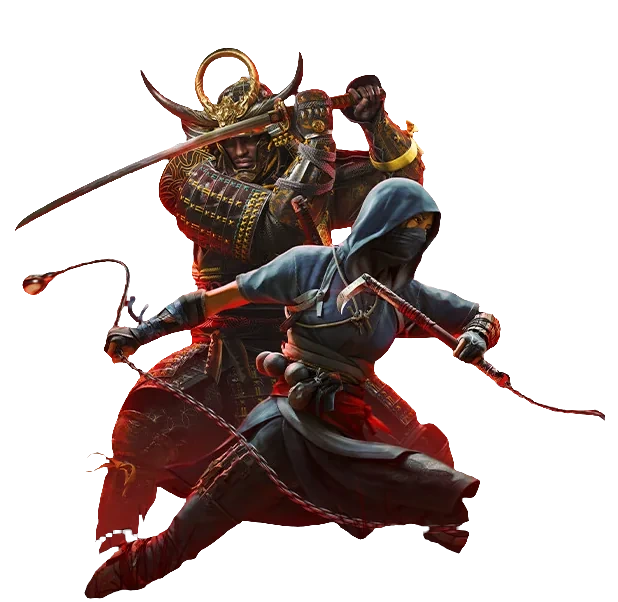
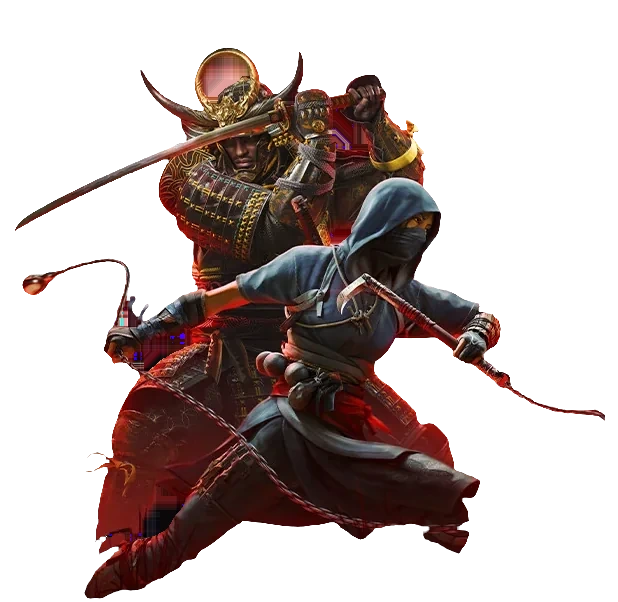
r16: poster ring back on every hero slide, auto-fit below faces/title; GoW cutout glitch strip removed; solid sm cutouts; FC26 key art hero; v=19

diff --git a/hg.js b/hg.js
@@ -6,7 +6,7 @@
   const IN_APP = /HunterGameApp/i.test(navigator.userAgent);
   const IS_ANDROID = /Android/i.test(navigator.userAgent);
   const store = { get: k => { try { return JSON.parse(localStorage.getItem('hg.' + k)); } catch { return null; } }, set: (k, v) => { try { localStorage.setItem('hg.' + k, JSON.stringify(v)); } catch {} } };
-  const I = n => '/img/' + n + '?v=18';
+  const I = n => '/img/' + n + '?v=19';
   const POSTERS = Array.from({ length: 12 }, (_, i) => I(`card-${String(i + 1).padStart(2, '0')}.webp`));
   const LOGO = I('hg-logo.png');
   const sv = (p, w = 30) => `<svg class="hg-svg" width="${w}" height="${w}" viewBox="0 0 24 24" fill="none" stroke="currentColor" stroke-width="2" stroke-linecap="round" stroke-linejoin="round" aria-hidden="true">${p}</svg>`;
@@ -32,14 +32,14 @@
   const ARW = ' ' + IC.arrow();
 
   // Each slide: one game. Centre = clean cutout, background = different official art (dimmed + blurred), ring = posters of the OTHER games
-  const SLIDES = [
+  const SLIDES = [ // every slide shows the ring; rt = per-slide ring centre (% of hero height), kept below background faces
     { id: 'wolverine', pop: 'f-wolverine', clear: 1, bg: 'wolverine-key', tag: "Marvel's Wolverine · PS5", h: 'Unleash the <span>claws.</span>' },
     { id: 'gow', bg: 'h-gow', tag: 'God of War Ragnarök', h: 'Kratos is <span>waiting.</span>' },
-    { id: 'gta6', bg: 'gta6-bg', soon: 1, ring: 1, tag: 'Grand Theft Auto VI', h: 'Vice City nights. <span>Coming soon.</span>' },
+    { id: 'gta6', bg: 'gta6-bg', soon: 1, tag: 'Grand Theft Auto VI', h: 'Vice City nights. <span>Coming soon.</span>' },
     { id: 'sm2', cut: 'peter', bg: 'h-sm2', tag: "Marvel's Spider-Man 2", h: 'Swing into <span>the city.</span>' },
     { id: 'acs', bg: 'h-acs', tag: "Assassin's Creed Shadows", h: 'Strike from <span>the shadows.</span>' },
-    { id: 'fc26', bg: 'h-fc26', tag: 'EA SPORTS FC 26', h: 'Settle it <span>on the pitch.</span>' },
-    { id: 'nr', bg: 'h-nr', ring: 1, tag: 'Elden Ring Nightreign', h: 'Survive <span>the night.</span>' },
+    { id: 'fc26', clear: 1, bg: 'h-fc26', tag: 'EA SPORTS FC 26', h: 'Settle it <span>on the pitch.</span>' },
+    { id: 'nr', bg: 'h-nr', tag: 'Elden Ring Nightreign', h: 'Survive <span>the night.</span>' },
     { id: 'wk', bg: 'h-wk', tag: 'Black Myth: Wukong', h: 'Take up <span>the staff.</span>' },
   ];
   const PIDS2 = ['sb', 'hfw', 'ff7r', 't8', 'mk1', 'hl', 'tlou2', 'rc', 'dmc5']; // second ring: its own posters, never shared
@@ -135,7 +135,7 @@
       busy = true; t0 = performance.now(); lastP = 0;
       ensure(next).then(() => requestAnimationFrame(() => {
         const prev = cur; cur = next; fillRing();
-        bgs.forEach((b, j) => b.classList.toggle('on', j === cur)); hx.classList.toggle('clr', !!SLIDES[cur].clear); hx.classList.toggle('ring-on', !!SLIDES[cur].ring);
+        bgs.forEach((b, j) => b.classList.toggle('on', j === cur)); hx.classList.toggle('clr', !!SLIDES[cur].clear); hx.classList.add('ring-on'); setTimeout(fitRing, 750);
         subs[prev].classList.remove('on'); subs[prev].classList.add('out');
         setTimeout(() => subs[prev].classList.remove('out'), 700);
         subs[cur].classList.remove('out'); subs[cur].classList.add('on');
@@ -144,19 +144,27 @@
         ensure((cur + 1) % SLIDES.length); // preload the next slide while this one plays
       }));
     }
-    hx.classList.toggle('clr', !!SLIDES[0].clear); hx.classList.toggle('ring-on', !!SLIDES[0].ring); measure(); fillRing(); layout();
+    hx.classList.toggle('clr', !!SLIDES[0].clear); hx.classList.add('ring-on');
+    // Ring sits as low as possible: its bottom edge stops just above the game tag, so it stays under every face and title.
+    function fitRing() {
+      const tag = $('.hgx-copy.on .hgx-tag', hx) || $('.hgx-copy.on', hx); if (!tag) return;
+      const hr = hx.getBoundingClientRect(); let bo = -1e9; cards.forEach(c => { const r = c.getBoundingClientRect(); if (r.bottom > bo) bo = r.bottom; });
+      const cur = parseFloat(getComputedStyle(ring1).top) || 0, want = cur + (tag.getBoundingClientRect().top - 12 - bo);
+      hx.style.setProperty('--rt', Math.round(want) + 'px');
+    }
+    measure(); fillRing(); layout(); fitRing(); setTimeout(fitRing, 800); document.fonts && document.fonts.ready.then(fitRing);
     let sx = null, moved = 0;
     hx.addEventListener('pointerdown', e => { if (e.target.closest('button')) return; sx = e.clientX; moved = 0; });
     addEventListener('pointermove', e => { if (sx == null) return; const dx = e.clientX - sx; sx = e.clientX; moved += dx; drag += dx * 0.01; }, { passive: true });
     addEventListener('pointerup', () => { if (sx == null) return; sx = null; if (Math.abs(moved) > 60) go(cur + (moved < 0 ? 1 : -1)); });
-    let rz; addEventListener('resize', () => { cancelAnimationFrame(rz); rz = requestAnimationFrame(() => { measure(); layout(); }); });
+    let rz; addEventListener('resize', () => { cancelAnimationFrame(rz); rz = requestAnimationFrame(() => { measure(); layout(); fitRing(); }); });
     new IntersectionObserver(([e]) => { visible = e.isIntersecting; hx.classList.toggle('paused', !visible); if (visible) { t0 = performance.now() - lastP * DUR; loop(); } }).observe(hx);
     document.addEventListener('visibilitychange', () => { if (!document.hidden && visible) { t0 = performance.now() - lastP * DUR; loop(); } });
     let running = false, lastP = 0;
     function loop() { if (!running) { running = true; requestAnimationFrame(tick); } }
     function tick(now) {
       if (!visible || document.hidden) { running = false; tick.l = 0; return; }
-      const dt = Math.min(50, now - (tick.l || now)); tick.l = now; if (!reduce && SLIDES[cur].ring) { auto += dt * 0.00018; layout(); }
+      const dt = Math.min(50, now - (tick.l || now)); tick.l = now; if (!reduce) { auto += dt * 0.00018; layout(); }
       lastP = Math.min(1, (now - t0) / DUR); prog.style.transform = `scaleX(${lastP.toFixed(4)})`;
       if (lastP >= 1 && !reduce) go(cur + 1);
       requestAnimationFrame(tick);
@@ -386,16 +394,21 @@
 
   /* ---------- App download ---------- */
   function appPopup() {
-    popup({ cls: 'p-app', art: I('r-app.webp'), icon: `<img src="${LOGO}" alt="Hunter Gamers" style="width:46px">`, title: 'Get the Hunter Game app', text: 'Book slots faster, keep your login, and get the full-screen experience on Android.',
-      extra: `<p style="font-size:12px">Android 7+ · about 6 MB · allow "install unknown apps" when asked.</p>`,
+    const el = popup({ cls: 'p-app', art: I('k-re9.webp'), icon: `<img src="${LOGO}" alt="Hunter Gamers" style="width:46px">`, title: 'Get the Hunter Gamers app', text: 'Book slots faster, keep your login, and get the full-screen experience on Android.',
+      extra: `<p class="hg-app-meta" style="font-size:12px">Android 7+ · latest version</p>`,
       actions: [{ label: 'Maybe later', run: () => store.set('appAsked', Date.now()) }, { label: `${IC.dl()} Download APK`, primary: true, run: () => { store.set('appAsked', Date.now()); location.href = '/downloads/hunter-game.apk'; } }] });
+    $$('[data-close]', el).forEach(x => x.addEventListener('click', () => store.set('appAsked', Date.now())));
+    Promise.all([fetch('/version.json', { cache: 'no-store' }).then(r => r.json()).catch(() => null), fetch('/downloads/hunter-game.apk', { method: 'HEAD', cache: 'no-store' }).then(r => +r.headers.get('content-length') || 0).catch(() => 0)])
+      .then(([v, len]) => { const m = $('.hg-app-meta', el); if (m) m.textContent = `Android 7+ · ${v ? 'v' + v.versionName : 'latest version'}${len ? ' · ' + (len / 1048576).toFixed(1) + ' MB' : ''}`; });
   }
+  let appTries = 0;
   function maybeApp() {
-    if (IN_APP || !IS_ANDROID) return;
+    if (IN_APP || window.HGApp) return;
     const t = store.get('appAsked'); if (t && Date.now() - t < 3 * 864e5) return;
-    if (loginEl.classList.contains('on') || openSheet) return;
+    if (loginEl.classList.contains('on') || openSheet || document.querySelector('.hg-cookie.on')) { if (appTries++ < 30) setTimeout(maybeApp, 2000); return; }
     appPopup();
   }
+  setTimeout(maybeApp, 2000);
   function addAppLinks() {
     if (IN_APP) return;
     const a = `<a class="hg-dl-link" href="/downloads/hunter-game.apk" data-hg-app>${svg(ico.dl).replace('<svg', '<svg width="16" height="16" fill="none" stroke="currentColor" stroke-width="2"')}Get the app</a>`;
@@ -623,7 +636,7 @@
     if (pct < 0) sh.classList.remove('upd-busy');
   };
 
-  buildHero(); buildGames(); buildFeature(); buildHardware(); buildLive(); buildReveal(); route(); buildNav(); wireActions(); addAppLinks();
+  buildHero(); buildGames(); buildFeature(); buildHardware(); buildLive(); { const lv = $('#live'), co = $('#consoles'), re = $('#rent'); if (lv && co) { lv.after(co); if (re) co.after(re); } } buildReveal(); route(); buildNav(); wireActions(); addAppLinks();
   loginEl = buildLogin(); cookieEl = buildCookie(); fillUser();
   if (IN_APP) document.documentElement.classList.add('in-app');
   if (!store.get('user') && !store.get('guest')) openLogin(); else afterLogin();

diff --git a/sw.js b/sw.js
@@ -1,5 +1,5 @@
-const CACHE='hg-v18';
-const ASSETS=["/", "/index.html", "/hg.css?v=18", "/hg.js?v=18", "/version.json", "/img/SOURCES.md", "/img/app-launcher-icon.png", "/img/c-acs-md.webp", "/img/c-acs-sm.webp", "/img/c-fc26-md.webp", "/img/c-fc26-sm.webp", "/img/c-gow-md.webp", "/img/c-gow-sm.webp", "/img/c-gta6-md.webp", "/img/c-gta6-sm.webp", "/img/c-nr-md.webp", "/img/c-nr-sm.webp", "/img/c-peter-md.webp", "/img/c-peter-sm.webp", "/img/c-spidey-feature.webp", "/img/c-wk-md.webp", "/img/c-wk-sm.webp", "/img/c-wolverine-md.webp", "/img/c-wolverine-sm.webp", "/img/card-01-sm.webp", "/img/card-01.webp", "/img/card-02-sm.webp", "/img/card-02.webp", "/img/card-03-sm.webp", "/img/card-03.webp", "/img/card-04-sm.webp", "/img/card-04.webp", "/img/card-05-sm.webp", "/img/card-05.webp", "/img/card-06-sm.webp", "/img/card-06.webp", "/img/card-07-sm.webp", "/img/card-07.webp", "/img/card-08-sm.webp", "/img/card-08.webp", "/img/card-09-sm.webp", "/img/card-09.webp", "/img/card-10-sm.webp", "/img/card-10.webp", "/img/card-11-sm.webp", "/img/card-11.webp", "/img/card-12-sm.webp", "/img/card-12.webp", "/img/f-jin.webp", "/img/f-kratos.webp", "/img/f-miles.webp", "/img/f-wolverine.webp", "/img/fx-got-a.webp", "/img/fx-got-b.webp", "/img/fx-got-c.webp", "/img/fx-gow-a.webp", "/img/fx-gow-b.webp", "/img/fx-gow-c.webp", "/img/fx-sm2-a.webp", "/img/fx-sm2-b.webp", "/img/fx-sm2-bg.webp", "/img/fx-smm-a.webp", "/img/fx-smm-b.webp", "/img/fx-smm-c.webp", "/img/gta6-bg-md.webp", "/img/gta6-bg-sm.webp", "/img/gta6-bg.webp", "/img/gta6-jason-bg-md.webp", "/img/gta6-jason-bg-sm.webp", "/img/gta6-jason-bg.webp", "/img/h-acs-md.webp", "/img/h-acs-sm.webp", "/img/h-fc26-md.webp", "/img/h-fc26-sm.webp", "/img/h-gow-md.webp", "/img/h-gow-sm.webp", "/img/h-nr-md.webp", "/img/h-nr-sm.webp", "/img/h-sm2-md.webp", "/img/h-sm2-sm.webp", "/img/h-wk-md.webp", "/img/h-wk-sm.webp", "/img/hg-logo.png", "/img/hw-ps4.webp", "/img/inline-0de9c85f.webp", "/img/inline-4b8af9d3.webp", "/img/inline-8ea46ef0.webp", "/img/inline-9645cd9f.webp", "/img/inline-d1938802.webp", "/img/inline-edeb105f.webp", "/img/k-acs.webp", "/img/k-bo7.webp", "/img/k-ds2.webp", "/img/k-fc26.webp", "/img/k-got.webp", "/img/k-gow.webp", "/img/k-gta6.webp", "/img/k-nr.webp", "/img/k-re9.webp", "/img/k-sm2.webp", "/img/k-wk.webp", "/img/k-wolverine.webp", "/img/miles-bg-md.webp", "/img/miles-bg-sm.webp", "/img/miles-bg.webp", "/img/p-acs.webp", "/img/p-bo7.webp", "/img/p-cp.webp", "/img/p-dg.webp", "/img/p-ds2.webp", "/img/p-er.webp", "/img/p-fc26.webp", "/img/p-got.webp", "/img/p-gow.webp", "/img/p-gta6.webp", "/img/p-nr.webp", "/img/p-rdr2.webp", "/img/p-re4.webp", "/img/p-re9.webp", "/img/p-sek.webp", "/img/p-sm2.webp", "/img/p-wk.webp", "/img/p-wolverine.webp", "/img/q-dmc5.webp", "/img/q-ff7r.webp", "/img/q-hfw.webp", "/img/q-hl.webp", "/img/q-mk1.webp", "/img/q-rc.webp", "/img/q-sb.webp", "/img/q-t8.webp", "/img/q-tlou2.webp", "/img/r-account.webp", "/img/r-app.webp", "/img/r-bookings.webp", "/img/r-choose.webp", "/img/r-ctl.webp", "/img/r-ps4.webp", "/img/r-ps5.webp", "/img/r-rent.webp", "/img/r-snack.webp", "/img/r-snacks.webp", "/img/spidey2-bg-md.webp", "/img/spidey2-bg-sm.webp", "/img/spidey2-bg.webp", "/img/sx-book.webp", "/img/sx-consoles.webp", "/img/sx-live.webp", "/img/sx-rent.webp", "/img/sx-snacks.webp", "/img/sx-steps.webp", "/img/t-acs.webp", "/img/t-fc26.webp", "/img/t-gow.webp", "/img/t-gta6.webp", "/img/t-nr.webp", "/img/t-sm2.webp", "/img/t-wk.webp", "/img/t-wolverine.webp", "/img/w-acs.webp", "/img/w-fc26.webp", "/img/w-gow.webp", "/img/w-gta6.webp", "/img/w-nr.webp", "/img/w-sm2.webp", "/img/w-wk.webp", "/img/w-wolverine.webp", "/img/wolverine-bg-md.webp", "/img/wolverine-bg-sm.webp", "/img/wolverine-bg.webp", "/img/wolverine-key-md.webp", "/img/wolverine-key-sm.webp", "/img/x-dualsense.webp", "/img/x-ps5.webp", "/img/x-ps5duo.webp", "/site.webmanifest", "/icon-192.png", "/icon-512.png", "/favicon-32.png", "/apple-touch-icon.png"];
+const CACHE='hg-v20';
+const ASSETS=["/", "/index.html", "/hg.css?v=19", "/hg.js?v=19", "/version.json", "/img/SOURCES.md", "/img/app-launcher-icon.png", "/img/c-acs-md.webp", "/img/c-acs-sm.webp", "/img/c-fc26-md.webp", "/img/c-fc26-sm.webp", "/img/c-gow-md.webp", "/img/c-gow-sm.webp", "/img/c-gta6-md.webp", "/img/c-gta6-sm.webp", "/img/c-nr-md.webp", "/img/c-nr-sm.webp", "/img/c-peter-md.webp", "/img/c-peter-sm.webp", "/img/c-spidey-feature.webp", "/img/c-wk-md.webp", "/img/c-wk-sm.webp", "/img/c-wolverine-md.webp", "/img/c-wolverine-sm.webp", "/img/card-01-sm.webp", "/img/card-01.webp", "/img/card-02-sm.webp", "/img/card-02.webp", "/img/card-03-sm.webp", "/img/card-03.webp", "/img/card-04-sm.webp", "/img/card-04.webp", "/img/card-05-sm.webp", "/img/card-05.webp", "/img/card-06-sm.webp", "/img/card-06.webp", "/img/card-07-sm.webp", "/img/card-07.webp", "/img/card-08-sm.webp", "/img/card-08.webp", "/img/card-09-sm.webp", "/img/card-09.webp", "/img/card-10-sm.webp", "/img/card-10.webp", "/img/card-11-sm.webp", "/img/card-11.webp", "/img/card-12-sm.webp", "/img/card-12.webp", "/img/f-jin.webp", "/img/f-kratos.webp", "/img/f-miles.webp", "/img/f-wolverine.webp", "/img/fx-got-a.webp", "/img/fx-got-b.webp", "/img/fx-got-c.webp", "/img/fx-gow-a.webp", "/img/fx-gow-b.webp", "/img/fx-gow-c.webp", "/img/fx-sm2-a.webp", "/img/fx-sm2-b.webp", "/img/fx-sm2-bg.webp", "/img/fx-smm-a.webp", "/img/fx-smm-b.webp", "/img/fx-smm-c.webp", "/img/gta6-bg-md.webp", "/img/gta6-bg-sm.webp", "/img/gta6-bg.webp", "/img/gta6-jason-bg-md.webp", "/img/gta6-jason-bg-sm.webp", "/img/gta6-jason-bg.webp", "/img/h-acs-md.webp", "/img/h-acs-sm.webp", "/img/h-fc26-md.webp", "/img/h-fc26-sm.webp", "/img/h-gow-md.webp", "/img/h-gow-sm.webp", "/img/h-nr-md.webp", "/img/h-nr-sm.webp", "/img/h-sm2-md.webp", "/img/h-sm2-sm.webp", "/img/h-wk-md.webp", "/img/h-wk-sm.webp", "/img/hg-logo.png", "/img/hw-ps4.webp", "/img/inline-0de9c85f.webp", "/img/inline-4b8af9d3.webp", "/img/inline-8ea46ef0.webp", "/img/inline-9645cd9f.webp", "/img/inline-d1938802.webp", "/img/inline-edeb105f.webp", "/img/k-acs.webp", "/img/k-bo7.webp", "/img/k-ds2.webp", "/img/k-fc26.webp", "/img/k-got.webp", "/img/k-gow.webp", "/img/k-gta6.webp", "/img/k-nr.webp", "/img/k-re9.webp", "/img/k-sm2.webp", "/img/k-wk.webp", "/img/k-wolverine.webp", "/img/miles-bg-md.webp", "/img/miles-bg-sm.webp", "/img/miles-bg.webp", "/img/p-acs.webp", "/img/p-bo7.webp", "/img/p-cp.webp", "/img/p-dg.webp", "/img/p-ds2.webp", "/img/p-er.webp", "/img/p-fc26.webp", "/img/p-got.webp", "/img/p-gow.webp", "/img/p-gta6.webp", "/img/p-nr.webp", "/img/p-rdr2.webp", "/img/p-re4.webp", "/img/p-re9.webp", "/img/p-sek.webp", "/img/p-sm2.webp", "/img/p-wk.webp", "/img/p-wolverine.webp", "/img/q-dmc5.webp", "/img/q-ff7r.webp", "/img/q-hfw.webp", "/img/q-hl.webp", "/img/q-mk1.webp", "/img/q-rc.webp", "/img/q-sb.webp", "/img/q-t8.webp", "/img/q-tlou2.webp", "/img/r-account.webp", "/img/r-app.webp", "/img/r-bookings.webp", "/img/r-choose.webp", "/img/r-ctl.webp", "/img/r-ps4.webp", "/img/r-ps5.webp", "/img/r-rent.webp", "/img/r-snack.webp", "/img/r-snacks.webp", "/img/spidey2-bg-md.webp", "/img/spidey2-bg-sm.webp", "/img/spidey2-bg.webp", "/img/sx-book.webp", "/img/sx-consoles.webp", "/img/sx-live.webp", "/img/sx-rent.webp", "/img/sx-snacks.webp", "/img/sx-steps.webp", "/img/t-acs.webp", "/img/t-fc26.webp", "/img/t-gow.webp", "/img/t-gta6.webp", "/img/t-nr.webp", "/img/t-sm2.webp", "/img/t-wk.webp", "/img/t-wolverine.webp", "/img/w-acs.webp", "/img/w-fc26.webp", "/img/w-gow.webp", "/img/w-gta6.webp", "/img/w-nr.webp", "/img/w-sm2.webp", "/img/w-wk.webp", "/img/w-wolverine.webp", "/img/wolverine-bg-md.webp", "/img/wolverine-bg-sm.webp", "/img/wolverine-bg.webp", "/img/wolverine-key-md.webp", "/img/wolverine-key-sm.webp", "/img/x-dualsense.webp", "/img/x-ps5.webp", "/img/x-ps5duo.webp", "/site.webmanifest", "/icon-192.png", "/icon-512.png", "/favicon-32.png", "/apple-touch-icon.png"];
 self.addEventListener('install',e=>{self.skipWaiting();e.waitUntil(caches.open(CACHE).then(async c=>{for(let i=0;i<ASSETS.length;i+=8){await Promise.all(ASSETS.slice(i,i+8).map(u=>c.add(u).catch(()=>{})));}}));});
 self.addEventListener('activate',e=>{e.waitUntil(caches.keys().then(ks=>Promise.all(ks.filter(k=>k!==CACHE).map(k=>caches.delete(k)))).then(()=>self.clients.claim()));});
 self.addEventListener('fetch',e=>{const r=e.request;if(r.method!=='GET')return;const u=new URL(r.url);if(u.origin!==location.origin||u.pathname.startsWith('/api'))return;

diff --git a/index.html b/index.html
@@ -458,7 +458,7 @@ legend{width:100%;padding:0;margin-bottom:14px;display:flex;align-items:baseline
   *:not(.hgl-col):not(.hg-lt-st em):not(.hg-stn .pulse),*::before,*::after{animation:none!important;transition:none!important}
 }
 </style>
-<link rel="stylesheet" href="/hg.css?v=18">
+<link rel="stylesheet" href="/hg.css?v=19">
 </head>
 <body>
 
@@ -533,7 +533,7 @@ legend{width:100%;padding:0;margin-bottom:14px;display:flex;align-items:baseline
       <div class="console-grid">
         <article class="console-card is-featured">
           <span class="console-ghost" aria-hidden="true">5</span>
-          <figure class="console-photo"><img src="/img/inline-9645cd9f.webp" alt="Next-gen console with controller (3D render)" width="1280" height="720" loading="lazy" decoding="async"></figure>
+          <figure class="console-photo pl-a"><img src="/img/pl-ps5.webp?v=19" alt="PS5 Slim console with DualSense controllers" width="1280" height="720" loading="lazy" decoding="async"></figure>
           <div class="console-top"><span class="tag">Next-gen</span><svg class="pad" viewBox="0 0 72 44" aria-hidden="true"><path d="M20 6h32c5 0 8 3 10 9l6 18c1.500 5-1 9-6 9-3 0-5-1.500-7-4l-3-4H26l-3 4c-2 2.500-4 4-7 4-5 0-7.500-4-6-9l6-18c2-6 5-9 10-9z"/><path d="M19 17v10M14 22h10"/><circle cx="52" cy="17" r="1.800"/><circle cx="52" cy="27" r="1.800"/><circle cx="47" cy="22" r="1.800"/><circle cx="57" cy="22" r="1.800"/><circle cx="30" cy="30" r="3.500"/><circle cx="42" cy="30" r="3.500"/></svg></div>
           <h3>PS5</h3>
           <div class="rate"><span data-rate="ps5">₹100</span><small>per player / hour</small></div>
@@ -546,7 +546,7 @@ legend{width:100%;padding:0;margin-bottom:14px;display:flex;align-items:baseline
         </article>
         <article class="console-card">
           <span class="console-ghost" aria-hidden="true">4</span>
-          <figure class="console-photo"><img src="/img/inline-8ea46ef0.webp" alt="Classic console with controller (3D render)" width="1280" height="720" loading="lazy" decoding="async"></figure>
+          <figure class="console-photo pl-b"><img class="cut" src="/img/pl-ps4.webp?v=19" alt="PS4 console with DualShock 4 controller" width="1280" height="720" loading="lazy" decoding="async"></figure>
           <div class="console-top"><span class="tag">Best value</span><svg class="pad" viewBox="0 0 72 44" aria-hidden="true"><path d="M20 6h32c5 0 8 3 10 9l6 18c1.500 5-1 9-6 9-3 0-5-1.500-7-4l-3-4H26l-3 4c-2 2.500-4 4-7 4-5 0-7.500-4-6-9l6-18c2-6 5-9 10-9z"/><path d="M19 17v10M14 22h10"/><circle cx="52" cy="17" r="1.800"/><circle cx="52" cy="27" r="1.800"/><circle cx="47" cy="22" r="1.800"/><circle cx="57" cy="22" r="1.800"/><circle cx="30" cy="30" r="3.500"/><circle cx="42" cy="30" r="3.500"/></svg></div>
           <h3>PS4</h3>
           <div class="rate"><span data-rate="ps4">₹75</span><small>per player / hour</small></div>
@@ -564,7 +564,7 @@ legend{width:100%;padding:0;margin-bottom:14px;display:flex;align-items:baseline
   <section class="section rent" id="rent" aria-labelledby="rent-title">
     <div class="wrap">
       <article class="rent-card">
-        <figure class="rent-photo"><img src="/img/inline-9645cd9f.webp" alt="Console and controller for home rental (3D render)" width="1280" height="720" loading="lazy" decoding="async"></figure>
+        <figure class="rent-photo"><img src="/img/pl-rent.webp?v=19" alt="Friends playing PS5 at home" width="1280" height="720" loading="lazy" decoding="async"></figure>
         <div class="rent-body">
           <p class="eyebrow">Take-home rental</p>
           <h2 id="rent-title">Take a PS5 home</h2>
@@ -1257,5 +1257,5 @@ legend{width:100%;padding:0;margin-bottom:14px;display:flex;align-items:baseline
 })();
 </script>
 
-<script src="/hg.js?v=18" defer></script>
+<script src="/hg.js?v=19" defer></script>
 </body></html>

diff --git a/hg.css b/hg.css
@@ -663,3 +663,8 @@ main>section,.section,.hg-games,.hg-feat,.hgx,.hgf,section{overflow-x:clip}
 .hg-cf-dial .p{display:none}
 .hg-cf-card{-webkit-box-reflect:none!important;transform-style:flat!important}
 .hg-nav{backdrop-filter:none!important;-webkit-backdrop-filter:none!important;background:rgba(16,11,12,.96)!important}
+
+/* r16: ring on every slide, per-slide height */
+.hgx-ring,.hgx-ring.r1{top:var(--rt,58%)!important}
+/* r16: FC26 - the official key art is the hero; no extra cutout floating over the players' faces */
+.hgx-subject:nth-child(6){display:none!important}
